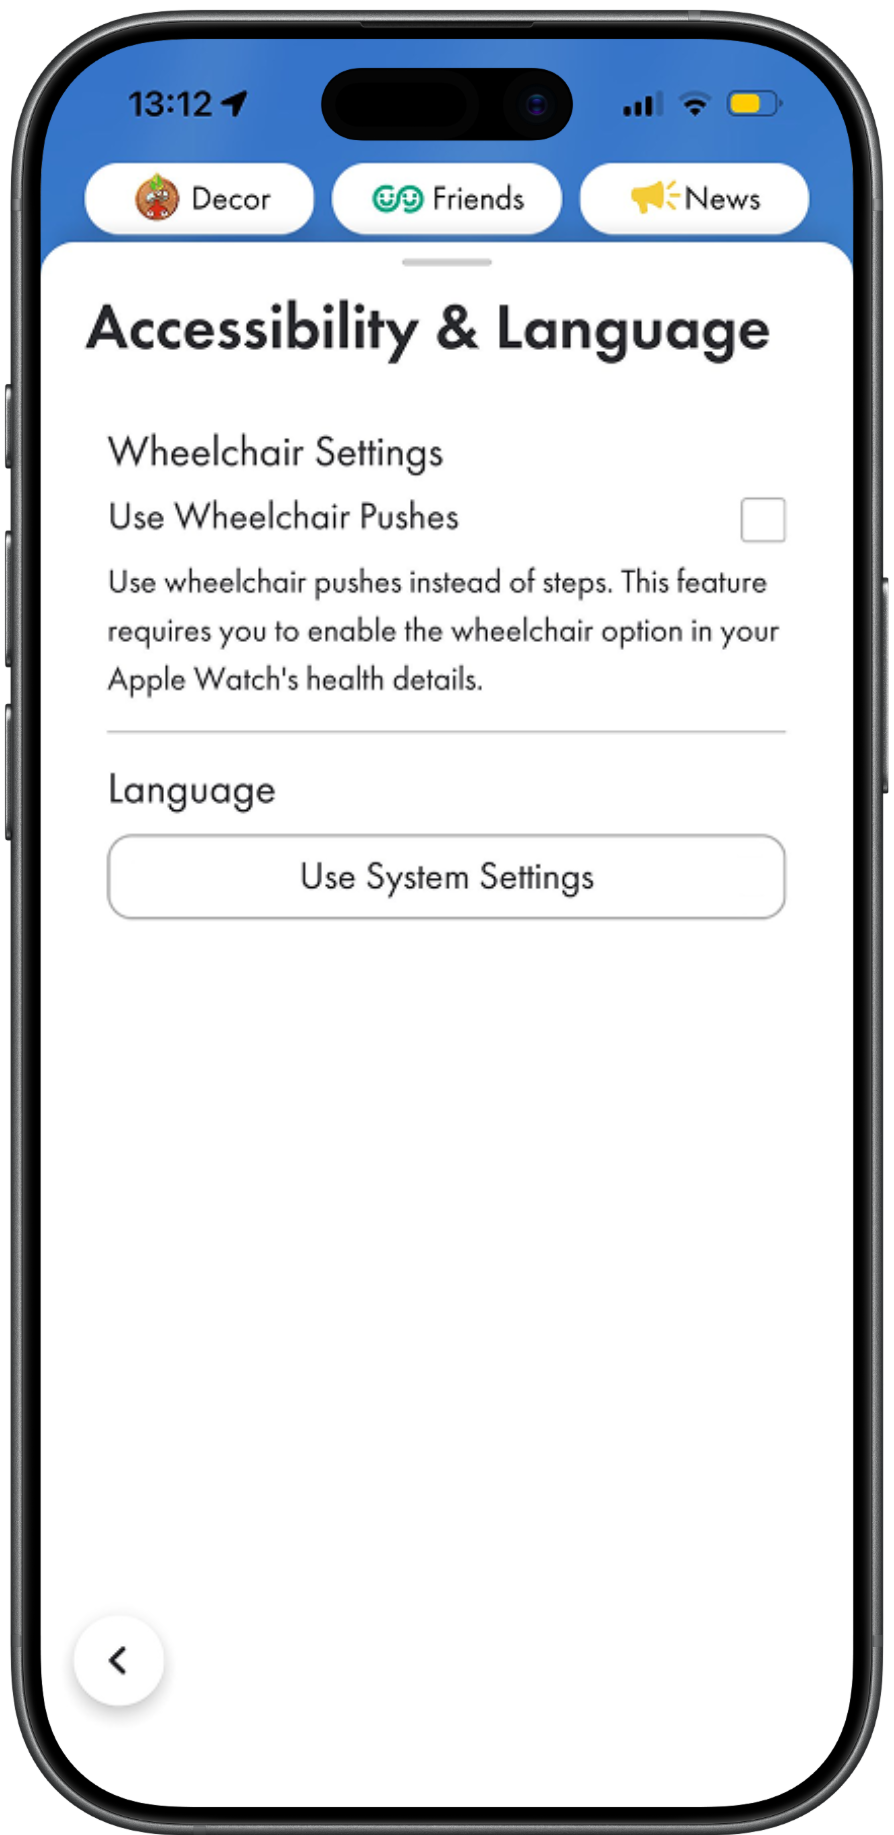
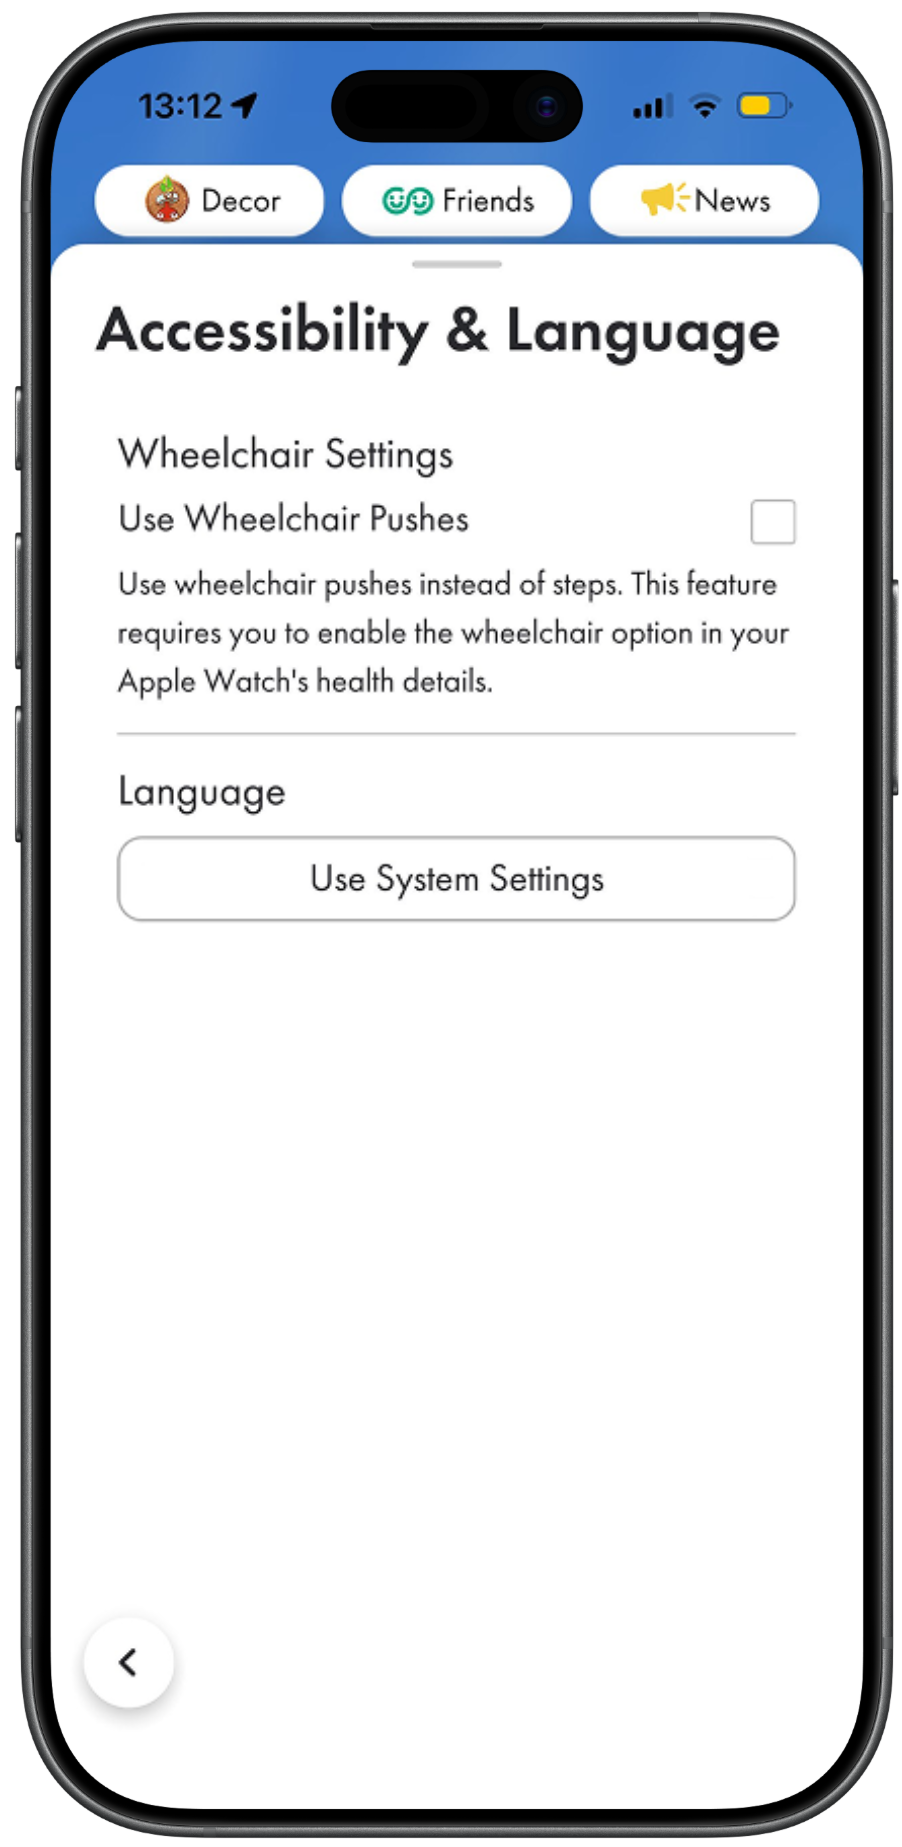
pikmin bloom case study

diff --git a/pages/pikminbloom.html b/pages/pikminbloom.html
@@ -10,6 +10,79 @@
       text-decoration: none;
       color: inherit;
     }
+    /* IMAGE COMPARISON MATRICES */
+    .comparison-row-side-by-side {
+      display: flex;
+      gap: 13px;
+      justify-content: center;
+      margin-bottom: 0;
+      width: 100%;
+    }
+
+    .final-image {
+      width: 170px;
+      height: 100%;
+      border-radius: 25px;
+      overflow: hidden;
+      position: relative;
+      flex-shrink: 0; 
+    }
+
+    .final-image img {
+      width: 100%;
+      height: 100%;
+      object-fit: cover;
+      object-position: center;
+      background: transparent;
+      transition: transform 0.3s ease;
+    }
+
+    .final-image img.bottom-focus {
+      object-position: bottom;
+    }
+
+    .comparison-labels-row {
+      display: flex;
+      gap: 13px;
+      justify-content: center;
+      margin-bottom: 8px;
+    }
+
+    .image-label {
+      background: rgba(0, 0, 0, 0.05);
+      padding: 8px 0;
+      border-radius: 10px;
+      text-align: center;
+      font-size: 13px;
+      width: 175px; 
+      margin: 12px 0;
+      font-weight: 400;
+      display: inline-flex;
+      align-items: center;
+      justify-content: center;
+    }
+
+    @media (max-width: 480px) {
+      .comparison-row-side-by-side {
+        gap: 8px;
+        padding: 0 10px;
+      }
+
+      .final-image {
+        width: 47%;  
+        height: auto;  
+        aspect-ratio: 9 / 18;  
+      }
+
+      .image-label {
+        width: 47%;
+        padding: 8px 10px;
+      }
+      
+      .final-image img {
+        object-fit: contain;
+      }
+    }
   </style>
 </head>
 <body>
@@ -112,10 +185,11 @@
           <a href="#research-pain-points" class="toc-link">Research & Pain Points</a>
           <a href="#design-features" class="toc-link">Design Features</a>
           <a href="#reflection" class="toc-link">Reflection</a>          
+          <a href="#prototype" class="toc-link">Interactive Prototype</a>  
         </nav>
 
         <a 
-          href="https://www.figma.com/proto/T8qCYlmKyJohbXbCRdwBY9/Cogs-187a-Final-Project?page-id=67%3A1287&node-id=226-1772&viewport=821%2C-343%2C0.2&t=ftA7t25ghgidpxSa-1&scaling=scale-down&content-scaling=fixed&starting-point-node-id=226%3A1772&show-proto-sidebar=1" 
+          href="https://www.figma.com/proto/cOjpCHb9x0du3JY0SKyzNp/COGS-127-Prototype?node-id=309-22&viewport=948%2C-2028%2C0.29&t=ht5vdGfgLE0NN85h-1&scaling=scale-down&content-scaling=fixed&starting-point-node-id=309%3A22&page-id=0%3A1" 
           target="_blank" 
           rel="noreferrer" 
           class="prototype-btn"        
@@ -148,7 +222,7 @@
 
       <section id="problem-statement" class="content-section">
         <p class="section-label">PROBLEM STATEMENT</p>
-        <h2 class="section-heading">The Problem</h2>
+        <h2 class="section-heading">Accessibility Barriers in Gameplay</h2>
         <p class="text-paragraph">
           By tying game progression strictly to footsteps with a heavy
           reliance on fine motor interactions, the current game fails to
@@ -202,26 +276,26 @@
             workouts, and adapted exercises.
           </li>
         </ul>
-      </section>
+       </section> 
 
       <section id="design-features" class="content-section">
         <p class="section-label">DESIGN FEATURES</p>
-        <h2 class="section-heading">Our insights</h2>
+        <h2 class="section-heading">Our Approach</h2>
         <p class="text-paragraph margin-bottom-small">
           After exploring user flows, we identified  <span style="color: #7cabb0; font-weight: 500;">two core accessibility</span>
-          features to make movement-based gameplay more inclusive for users
+          features to make gameplay more inclusive for users
           with mobility and dexterity impairments:
         </p>
         <ul class="bullet-list">
           <li>
-            <span class="font-medium">People care more about the game than the steps:</span>
-            Allowing the option to replace step-count progression with distance-based tracking such as miles,
+            <span class="font-medium">Movement Beyond Steps:</span>
+            Allowing the option to replace step-count progression with distance-based tracking, such as miles,
             allows users who use wheelchairs or mobility aids to have their
             movement more accurately reflected. This ensures that effort is
             measured equitably regardless of walking ability.
           </li>
           <li>
-            <span class="font-medium">People care more about the game than the steps:</span>
+            <span class="font-medium">Dexterity-Friendly Interactions:</span>
             Simplifying in-game interactions for users with limited motor
             control by reducing reliance on precise gestures like complex
             actions like tapping, swiping, and dragging are replaced with
@@ -232,10 +306,48 @@
         </ul>
       </section>
 
+  <section id="curious" class="content-section padding-bottom-large">
+  <div class="comparison-row-side-by-side" style="display: flex; justify-content: center; gap: 48px; width: 100%; margin-top: 0rem; margin-bottom: 5rem; flex-wrap: wrap;">
+    
+    <div class="comparison-column-unit" style="display: flex; flex-direction: column; align-items: center; gap: 16px;">
+      <div class="image-label-badge" style="background-color: rgba(28, 28, 28, 0.04); padding: 8px 20px; border-radius: 10px; font-size: 14px; width: 200px; text-align: center; margin: 0;">
+        Original App
+      </div>
+      <div class="final-image" style="width: 235px; height: 475px; flex-shrink: 0; border-radius: 25px; overflow: hidden; margin: 0;">
+        <img src="../assets/PIKMIN OG Accessibility and Language.png" alt="Original Pikmin Bloom App Layout" style="width: 100% !important; height: 100% !important; object-fit: cover !important;">
+      </div>
+    </div>
+
+    <div class="comparison-column-unit" style="display: flex; flex-direction: column; align-items: center; gap: 16px;">
+      <div class="image-label-badge" style="background-color: var(--color-btn-bg); color: var(--color-green-accent); padding: 8px 20px; border-radius: 10px; font-size: 14px; width: 200px; font-weight: 500; text-align: center; margin: 0;">
+        Our Redesign
+      </div>
+      <div class="final-image highlighted" style="width: 235px; height: 475px; flex-shrink: 0; overflow: hidden; margin: 0;">
+        <img src="../assets/PIKMIN Accessibility and Language.png" alt="Pikmin Bloom Accessibility Redesign" style="width: 100% !important; height: 100% !important; object-fit: cover !important;">
+      </div>
+    </div>
+
+  </div>
+</section>
+
       <section id="reflection" class="content-section padding-bottom-large">
         <p class="section-label">REFLECTION</p>
-      </section>
-    </main>
+  </section>
+
+  <section id="prototype" class="content-section">
+        <p class="section-label">INTERACTIVE PROTOTYPE</p>
+        <h2 class="section-heading">High-Fidelity Prototype</h2>
+        <div class="figma-embed-container" style="margin-top: 16px;">
+          <iframe
+            width="100%"
+            height="650"
+            src="https://embed.figma.com/proto/cOjpCHb9x0du3JY0SKyzNp/COGS-127-Prototype?node-id=309-22&viewport=948%2C-2028%2C0.29&scaling=scale-down&content-scaling=fixed&starting-point-node-id=309%3A22&page-id=0%3A1&embed-host=share"
+            allowfullscreen
+            style="border: none; border-radius: 12px; background: rgba(0,0,0,0.02);">
+          </iframe> 
+        </div>
+  </section>
+  </main>
   </div>
 
   <footer class="footer">

diff --git a/pages/steam_navigation.html b/pages/steam_navigation.html
@@ -151,7 +151,7 @@
 
         <div class="meta-dashboard-col skills-col">
           <span class="meta-dashboard-label">Skills</span>
-          <p class="meta-dashboard-text">A/B User Testing, User Flows, Product Thinking, Prototyping</p>
+          <p class="meta-dashboard-text">Cross-Functional Collaboration, User Flows, Product Thinking, Prototyping</p>
         </div>
 
         <div class="meta-dashboard-col">
@@ -284,11 +284,10 @@
           </p>
           
           <div class="comparison-row-side-by-side" style="display: flex; justify-content: center; width: 100%; margin-top: 12px;">
-            <div class="final-image" style="width: 200px; height: 396px; flex-shrink: 0;">
+            <div class="final-image">
               <img src="../assets/steam-prototype-a.png" alt="Prototype A Interface Layout Mockup">
             </div>
           </div>
-
         </div> <div class="prototype-showcase-block" style="display: flex; flex-direction: column; align-items: center; text-align: center; width: 100%; gap: 16px; margin-bottom: 2rem;">
           <div class="image-label-badge">
             Prototype B (The All-In-One Hub)
@@ -298,11 +297,11 @@
             A centralized hub designed to reduce information scattering and consolidate features into a single entry point.
           </p> 
           
-        <div class="comparison-row-side-by-side" style="margin-top: 12px; display: flex; justify-content: center; gap: 12px; width: 100%;">
-            <div class="final-image" style="width: 200px; height: 396px; flex-shrink: 0;">
+          <div class="comparison-row-side-by-side" style="margin-top: 12px; display: flex; justify-content: center; gap: 12px; width: 100%;">
+            <div class="final-image">
               <img src="../assets/steam-prototype-b1.png" alt="Prototype B Centralized Screen 1">
             </div>
-            <div class="final-image" style="width: 200px; height: 396px; flex-shrink: 0;">
+            <div class="final-image">
               <img src="../assets/steam-prototype-b2.png" alt="Prototype B Centralized Screen 2">
             </div>
           </div>
@@ -339,14 +338,13 @@
           </li>
         </ul>
 
-        <div class="comparison-row-side-by-side" style="margin-top: 32px; display: flex; justify-content: center; gap: 13px; width: 100%;">
-                  <div class="final-image highlighted" style="width: 200px; height: 396px; flex-shrink: 0;">
-                    <img src="../assets/steam-redesign2.png" alt="Final Production Interface Screen 1">
-                  </div>
-                  
-                  <div class="final-image highlighted" style="width: 200px; height: 396px; flex-shrink: 0;">
-                    <img src="../assets/steam-redesign1.png" alt="Final Production Interface Screen 2">
-                  </div>  
+        <div class="comparison-row-side-by-side" style="margin-top: 32px; justify-content: flex-start;">
+          <div class="final-image" style="margin-right: 8px;">
+            <img src="../assets/steam-redesign2.png" alt="Final Production Interface Screen 1">
+          </div>
+          <div class="final-image">
+            <img src="../assets/steam-redesign1.png" alt="Final Production Interface Screen 2">
+          </div>
         </div>
       </section>
 
@@ -355,13 +353,11 @@
         <h2 class="section-heading">Reflection</h2>
         <div class="text-block">
           <p>
-            This project really put into perspective how important it is to distinguish between mobile and desktop experiences; you can't simply move desktop 
-            features into a mobile layout and expect a smooth user journey. It showed my team and I that even the smallest details like renaming an ambiguous 
-            "Community" tag to "Forums" can help users more than we realized.
+            This project really put into perspective how important it is to distinguish between mobile and desktop experiences; you can't simply move desktop features into a mobile layout and expect a smooth user journey. It showed my team and me that even the smallest details, like renaming an ambiguous "Community" tag to "Forums" can help users more than we realized.
           </p>
           <p>
             We saw firsthand that when these details are overlooked, it can easily snowball into a "guessing game" for tasks that should be simple.
-            It taught me that even if an issue may seem minuscule at first glance, it's still important to account for it 
+            It taught me that even if an issue may seem minuscule at first glance, it's still important to account for it, 
             because those “small” issues are the exact moments where people decide to give up.
           </p>
         </div>
@@ -381,28 +377,28 @@
         </div>
       </section>
 
-      <section id="curious" class="content-section padding-bottom-large">
+    <section id="curious" class="content-section padding-bottom-large">
         <p class="section-label">FOR THE CURIOUS</p>
         <h2 class="section-heading">Visual Comparison</h2>
         <p class="text-paragraph">The images below showcase a side-by-side visual between our interactive layout choices and the original system interface.</p>
 
         <div class="comparison-group" style="display: flex; flex-direction: column; align-items: center; text-align: center; width: 100%; gap: 16px; margin-top: 4rem; margin-bottom: 5rem;">
-          <div class="comparison-labels-row" style="display: flex; gap: 85px; justify-content: center; width: 100%;">
+          <div class="comparison-labels-row" style="display: flex; gap: 13px; justify-content: center; width: 100%;">
             <div class="image-label-badge" style="background-color: rgba(28, 28, 28, 0.04); padding: 8px 20px; border-radius: 10px; font-size: 14px; width: 170px;">Original App</div>
             <div class="image-label-badge" style="background-color: var(--color-btn-bg); color: var(--color-green-accent); padding: 8px 20px; border-radius: 10px; font-size: 14px; width: 170px; font-weight: 500;">Our Redesign</div>
           </div>
           
-        <div class="comparison-row-side-by-side" style="display: flex; justify-content: center; gap: 13px; width: 100%;">
-            <div class="final-image" style="width: 240px; height: 475px; flex-shrink: 0;">
+          <div class="comparison-row-side-by-side" style="display: flex; justify-content: center; gap: 13px; width: 100%;">
+            <div class="final-image">
               <img src="../assets/steam-original1.png" alt="Original Steam App">
             </div>
-            <div class="final-image highlighted" style="width: 240px; height: 475px; flex-shrink: 0;">
+            <div class="final-image highlighted">
               <img src="../assets/steam-redesign2.png" alt="Steam Redesign">
             </div>
           </div>
-
+          
           <p class="image-caption" style="font-size: 14px; color: var(--text-grey); margin-top: 8px; text-align: center; max-width: 550px; line-height: 1.4; font-weight: 300;">
-            Vague icons and buried menus were replaced with a labeled bottom navigation bar and a centralized profile hub
+            Vague icons and buried menus were replaced with a labeled bottom navigation bar and a centralized profile hub, refocusing the experience around the shop, the app's primary use.
           </p>
         </div>
 
@@ -411,11 +407,11 @@
             Original App
           </div>
           
-        <div class="comparison-row-side-by-side" style="display: flex; justify-content: center; gap: 13px; width: 100%;">
-            <div class="final-image" style="width: 240px; height: 475px; flex-shrink: 0;">
+          <div class="comparison-row-side-by-side" style="display: flex; justify-content: center; gap: 13px; width: 100%;">
+            <div class="final-image">
               <img src="../assets/steam-original2.png" alt="Original Steam Menu">
             </div>
-            <div class="final-image" style="width: 240px; height: 475px; flex-shrink: 0;">
+            <div class="final-image">
               <img src="../assets/steam-original3.png" alt="Original Steam Menu 2">
             </div>
           </div>
@@ -426,8 +422,8 @@
             Our Redesign
           </div>
           
-        <div class="comparison-row-side-by-side" style="display: flex; justify-content: center; width: 100%;">
-            <div class="final-image highlighted" style="width: 240px; height: 475px; flex-shrink: 0;">
+          <div class="comparison-row-side-by-side" style="display: flex; justify-content: center; width: 100%;">
+            <div class="final-image highlighted">
               <img src="../assets/steam-redesign1.png" alt="Steam Redesign Menu">
             </div>
           </div>
@@ -442,7 +438,7 @@
   </div> 
   <footer class="footer">
     <div class="footer-row">
-      <p class="footer-thank-you">Thank you for viewing! :D</p>
+      <p class="footer-thank-you">Thank you for viewing! :-)</p>
       
       <button class="scroll-up-btn" id="scrollUpBtn">
         <span>Scroll up</span>

diff --git a/index.css b/index.css
@@ -1,6 +1,3 @@
-/* ==========================================================================
-   1. EDITORIAL SETUP & HIERARCHY
-   ========================================================================== */
 * {
   margin: 0;
   padding: 0;